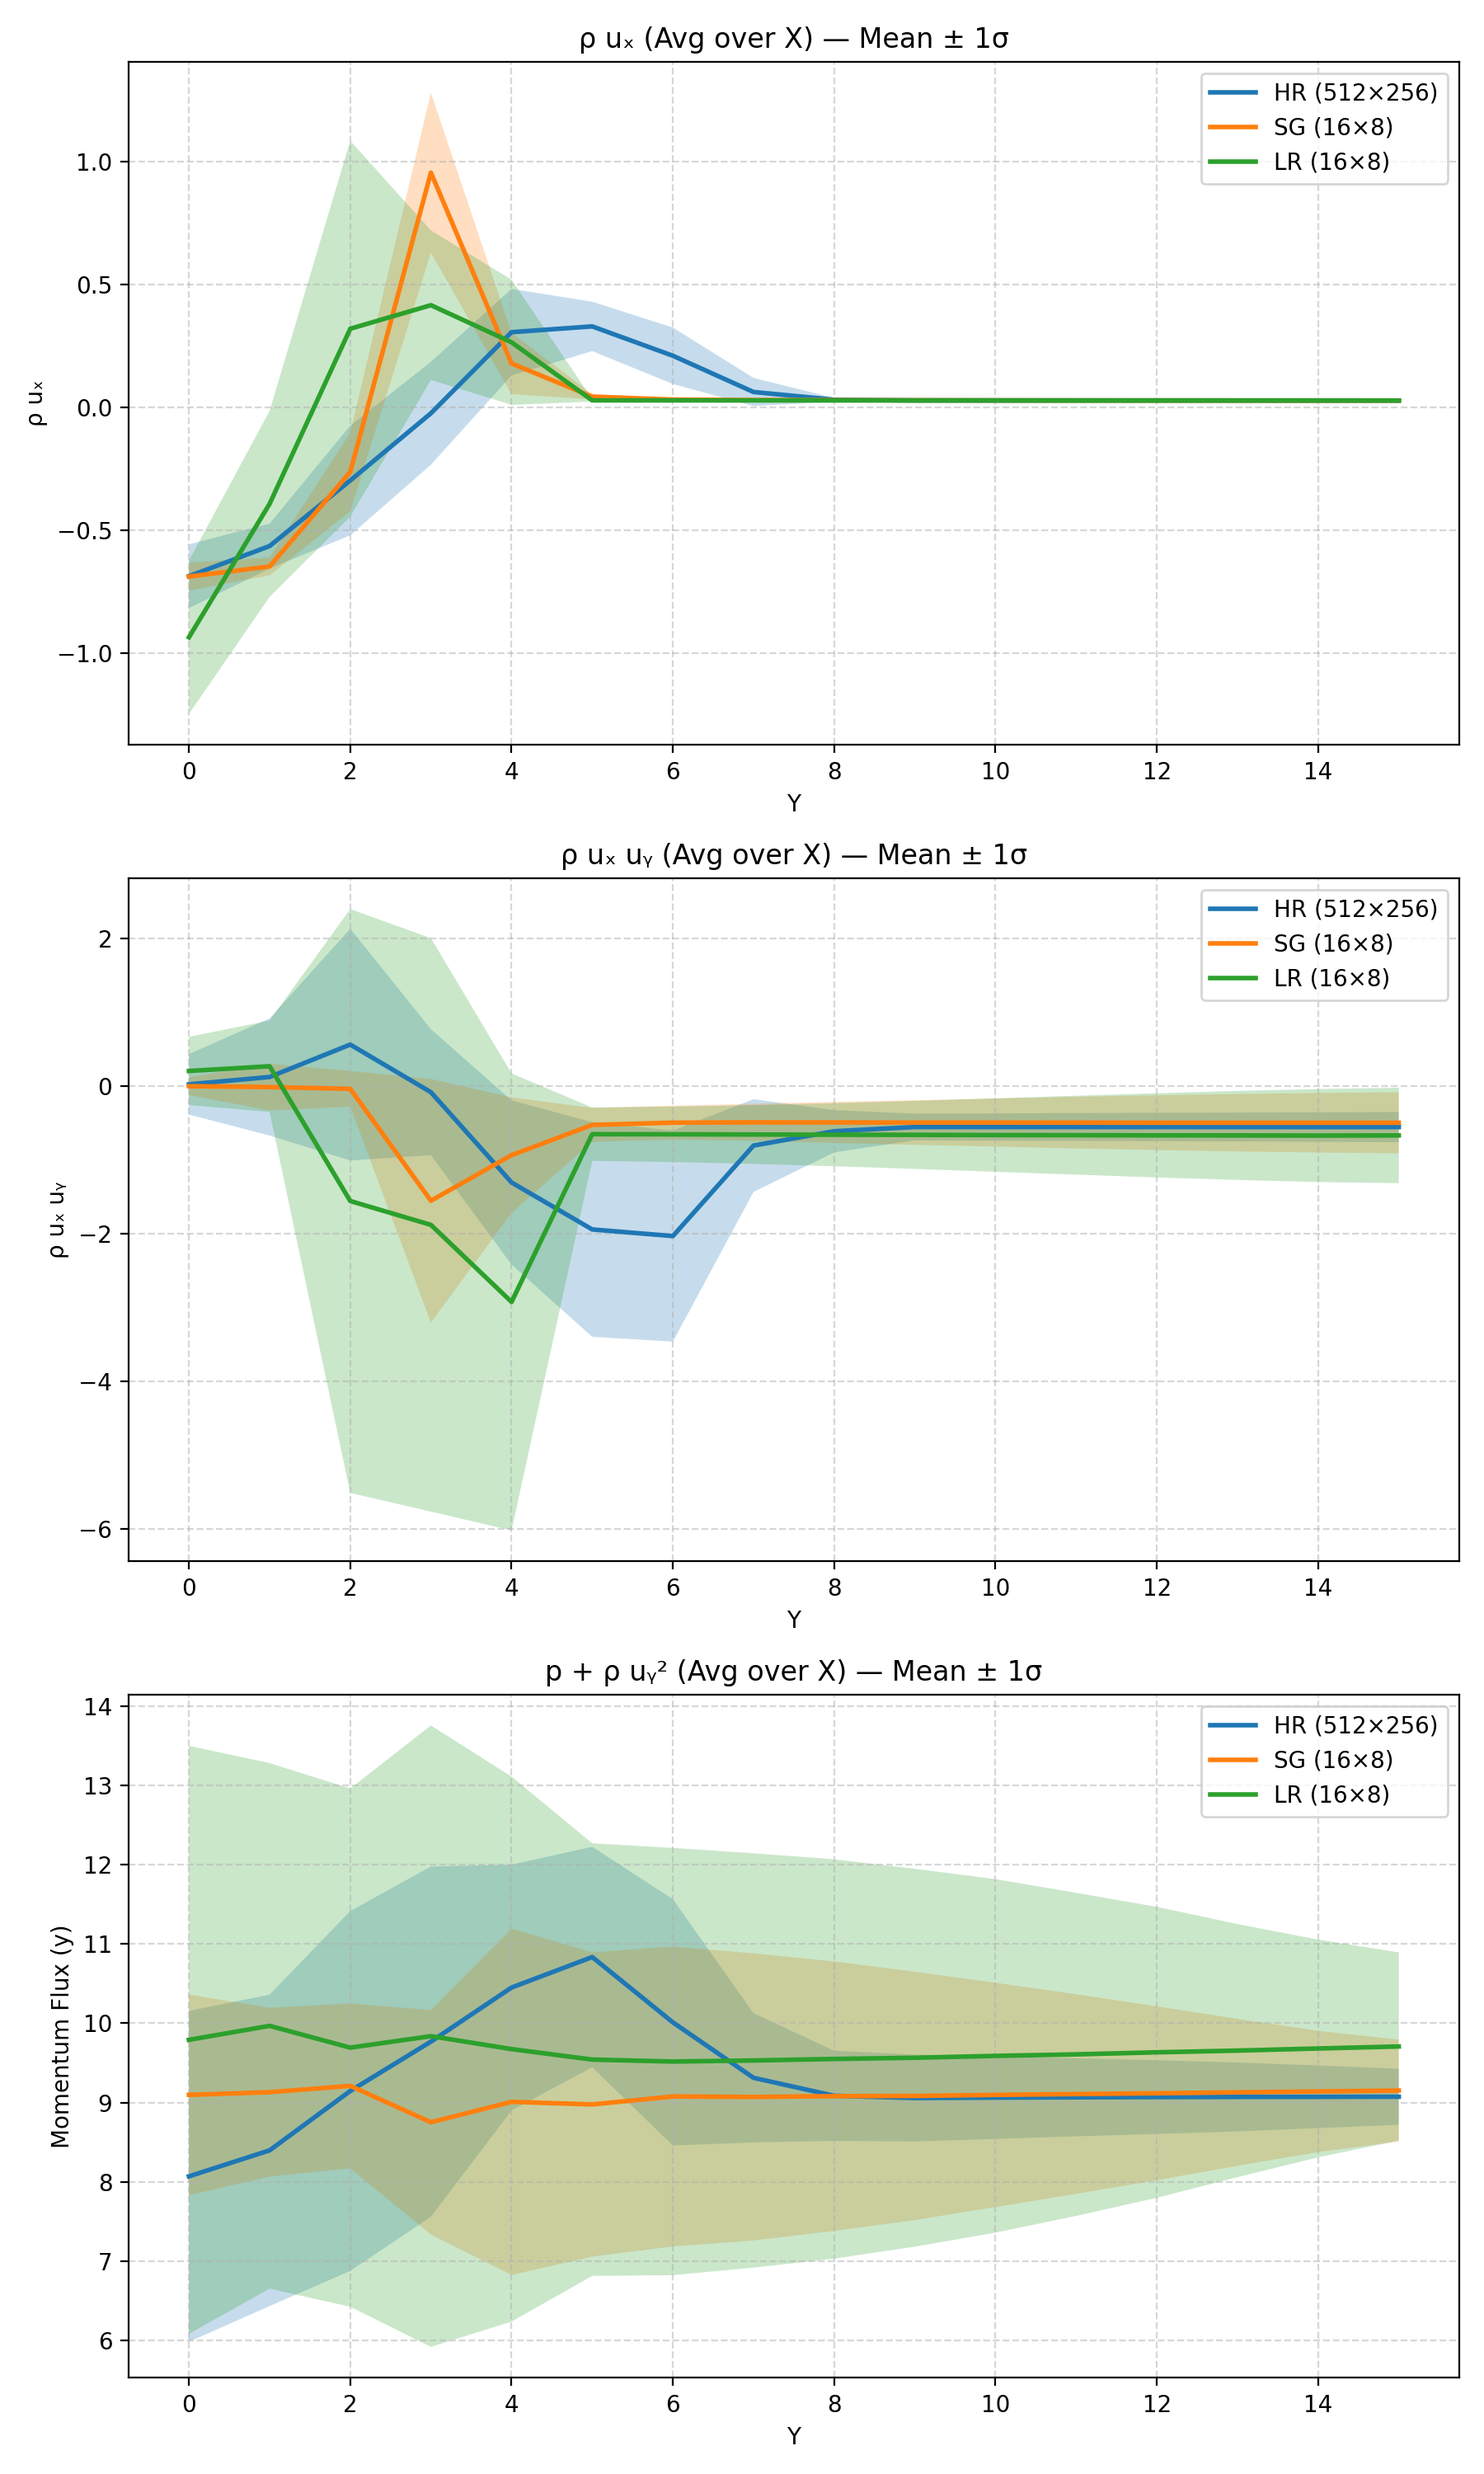
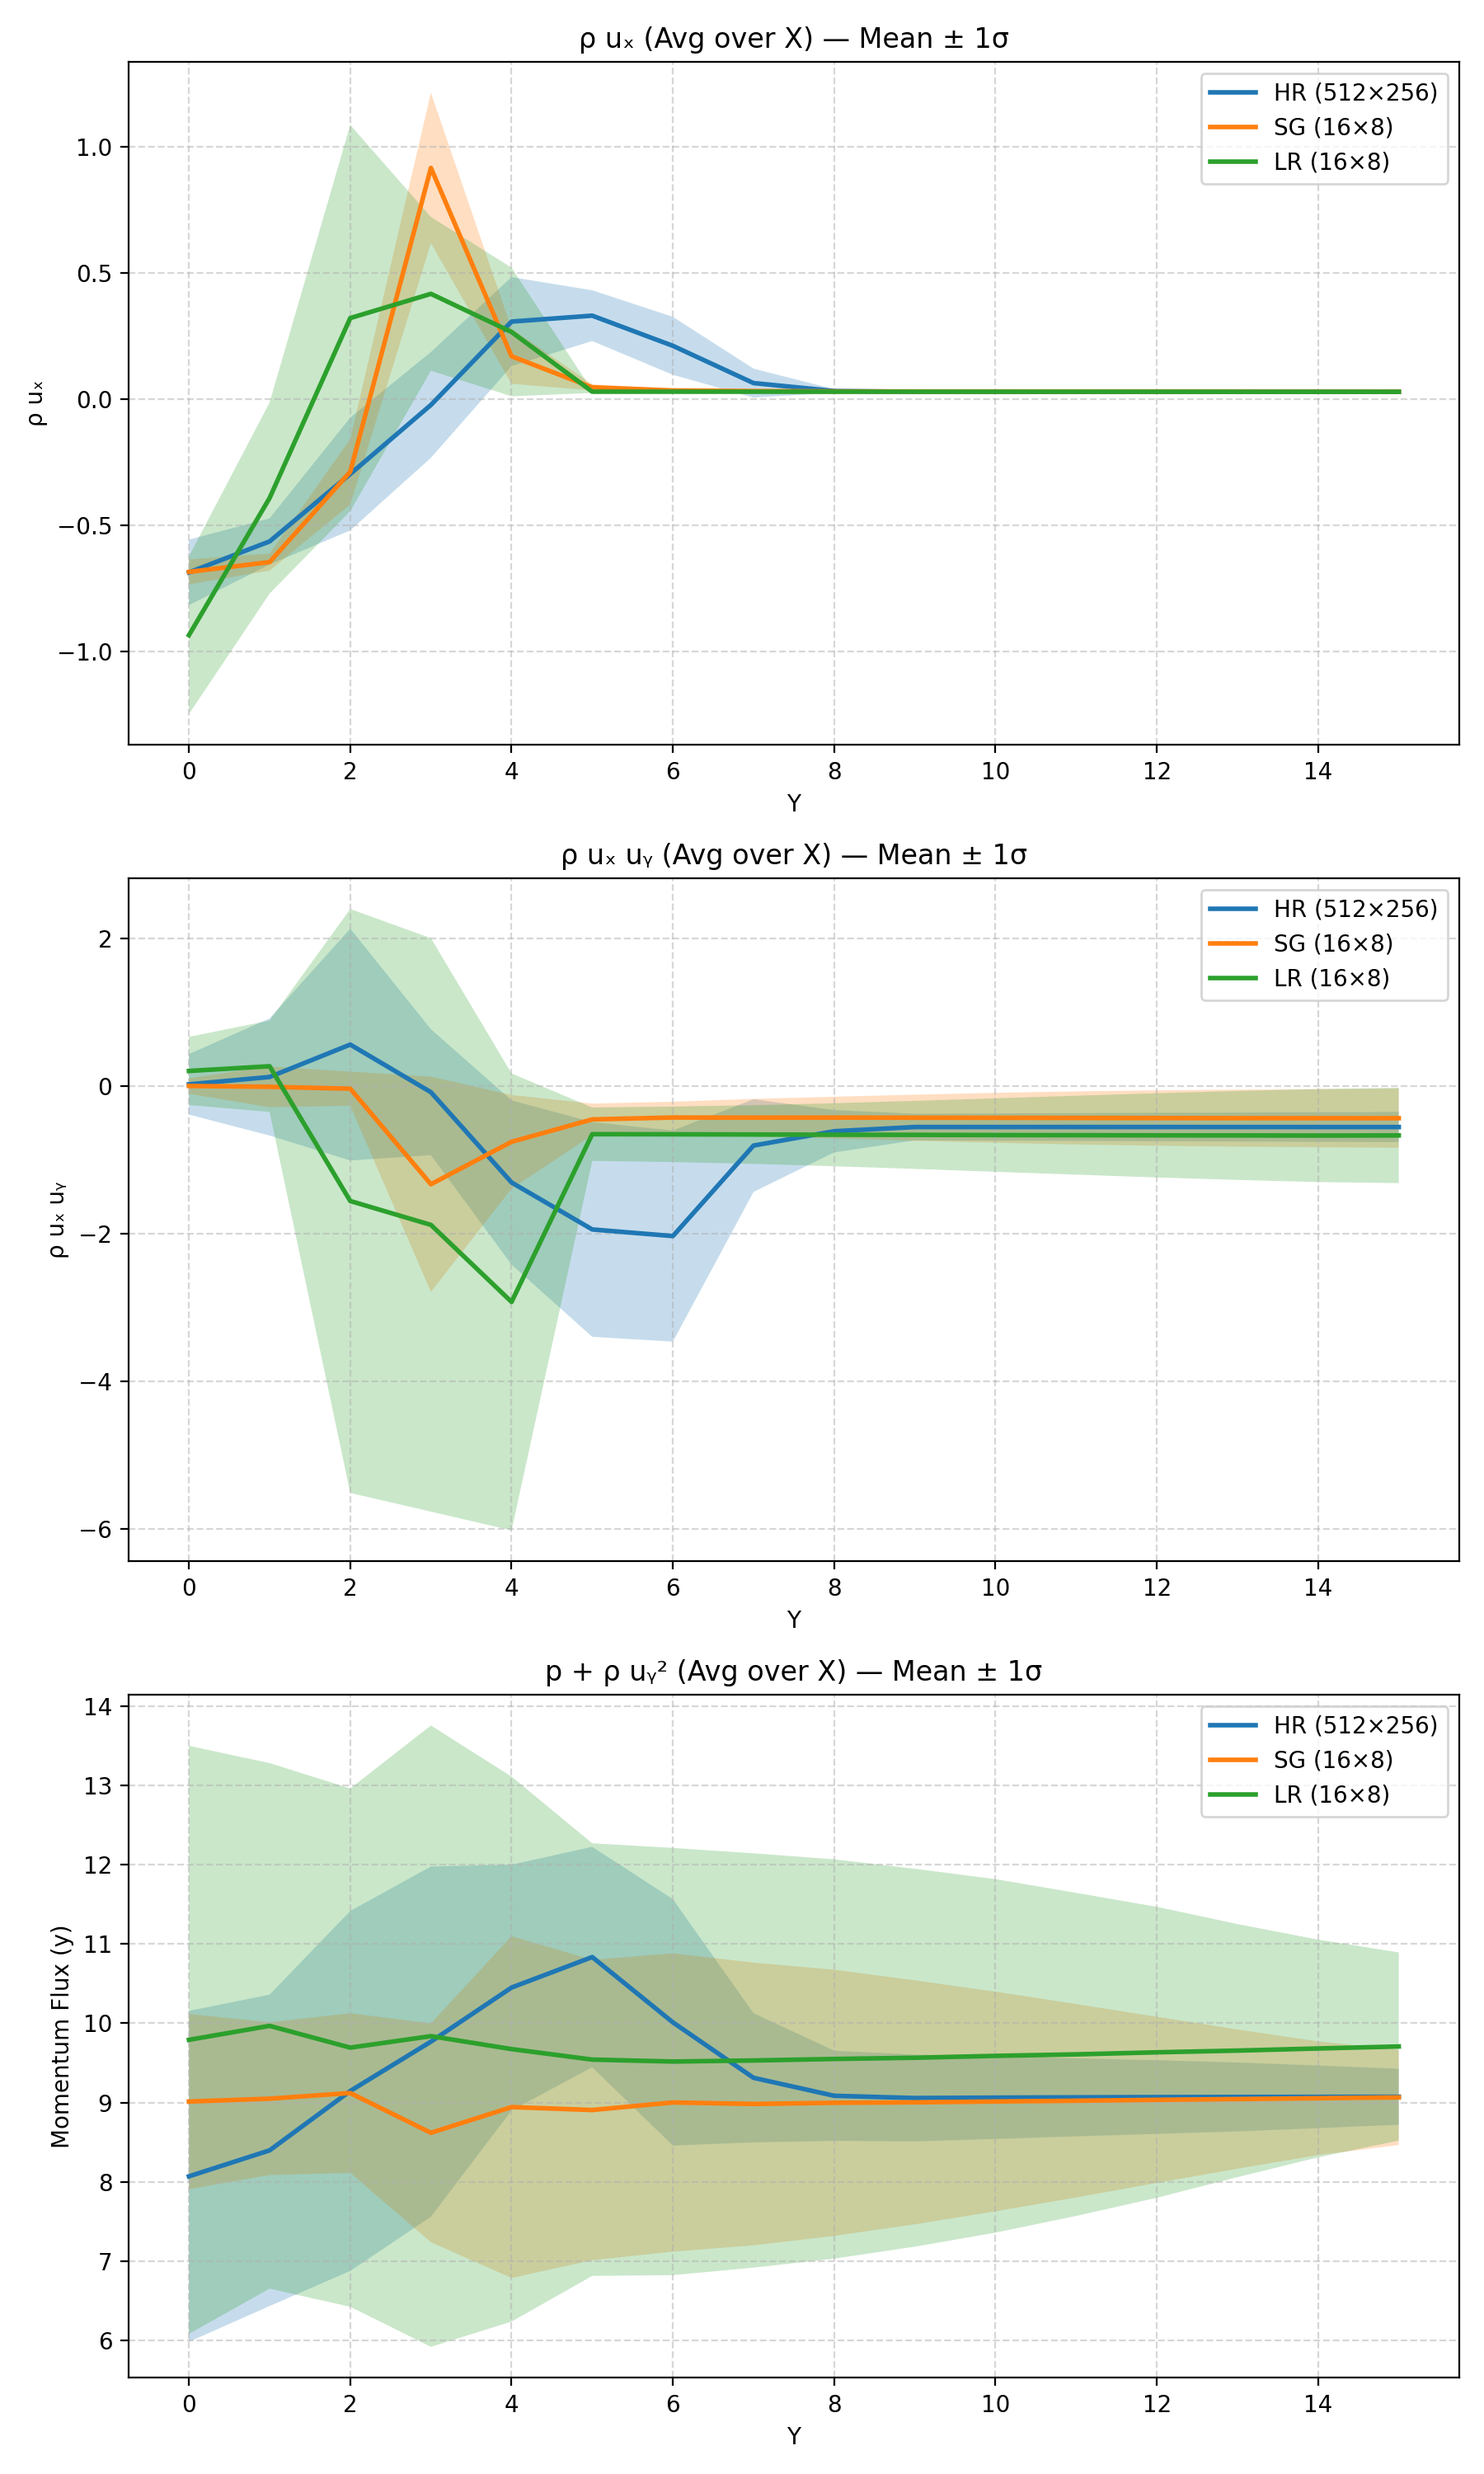
smoothed

diff --git a/AthenaK_legacy/sd_build/src/source_module.py b/AthenaK_legacy/sd_build/src/source_module.py
@@ -1017,7 +1017,7 @@ def source_func(rho, pres, ux, uy, ps, fmcl):
     for channel in range(3, 4, 1):
         v = source_term[channel]
         w = np.clip((np.abs(v)-np.percentile(np.abs(v),75)) / (np.percentile(np.abs(v),90)-np.percentile(np.abs(v),75)+1e-12), 0, 1)
-        A, B = gaussian_filter(v, 0.0), gaussian_filter(v, 3.0)
+        A, B = gaussian_filter(v, 0.0), gaussian_filter(v, 5.0)
         source_term[channel] = (1 - w) * A + w * B
 
     final_term = np.transpose(source_term, axes=(0, 2, 1))
